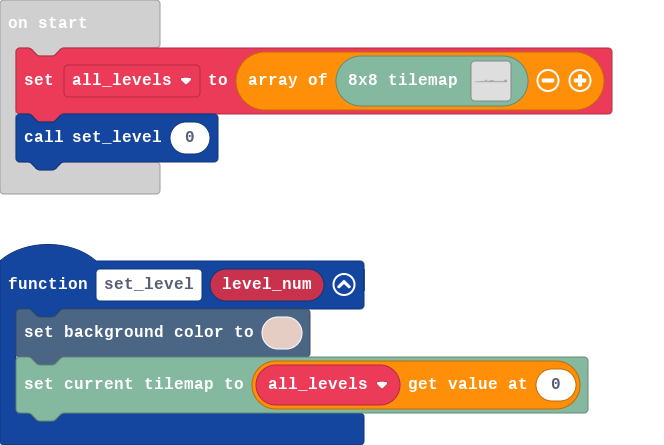
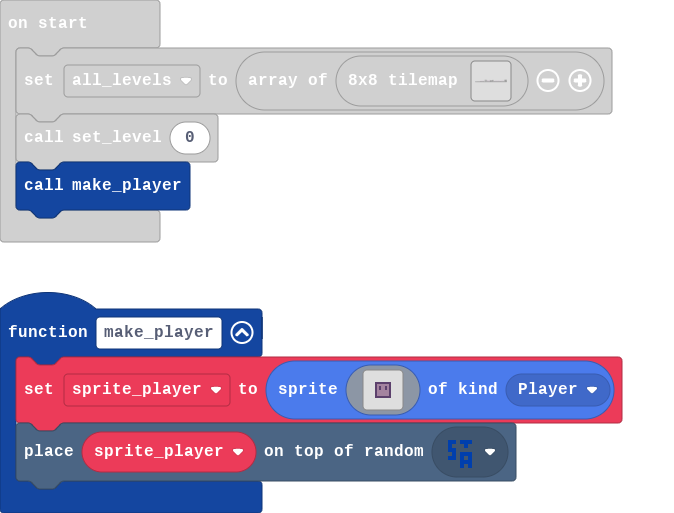
Make a player sprite

diff --git a/images.g.ts b/images.g.ts
@@ -1,0 +1,37 @@
+// Auto-generated code. Do not edit.
+namespace myImages {
+
+    helpers._registerFactory("image", function(name: string) {
+        switch(helpers.stringTrim(name)) {
+            case "image1":
+            case "player":return img`
+. . . . . . . . . . . . . . . . 
+. . . . . . . . . . . . . . . . 
+. . . . . . . . . . . . . . . . 
+. . . . . . . . . . . . . . . . 
+. . . . c c c c c c c c . . . . 
+. . . . c b b b b b b c . . . . 
+. . . . c b c b b c b c . . . . 
+. . . . c b c b b c b c . . . . 
+. . . . c b b b b b b c . . . . 
+. . . . c b b b b b b c . . . . 
+. . . . c b b b b b b c . . . . 
+. . . . c c c c c c c c . . . . 
+. . . . . . . . . . . . . . . . 
+. . . . . . . . . . . . . . . . 
+. . . . . . . . . . . . . . . . 
+. . . . . . . . . . . . . . . . 
+`;
+        }
+        return null;
+    })
+
+    helpers._registerFactory("animation", function(name: string) {
+        switch(helpers.stringTrim(name)) {
+
+        }
+        return null;
+    })
+
+}
+// Auto-generated code. Do not edit.

diff --git a/main.ts b/main.ts
@@ -2,6 +2,12 @@ function set_level (level_num: number) {
     scene.setBackgroundColor(13)
     tiles.loadMap(all_levels[0])
 }
+function make_player () {
+    sprite_player = sprites.create(assets.image`player`, SpriteKind.Player)
+    tiles.placeOnRandomTile(sprite_player, assets.tile`start_tile`)
+}
+let sprite_player: Sprite = null
 let all_levels: tiles.WorldMap[] = []
 all_levels = [tiles.createSmallMap(tilemap`level_1`)]
 set_level(0)
+make_player()
